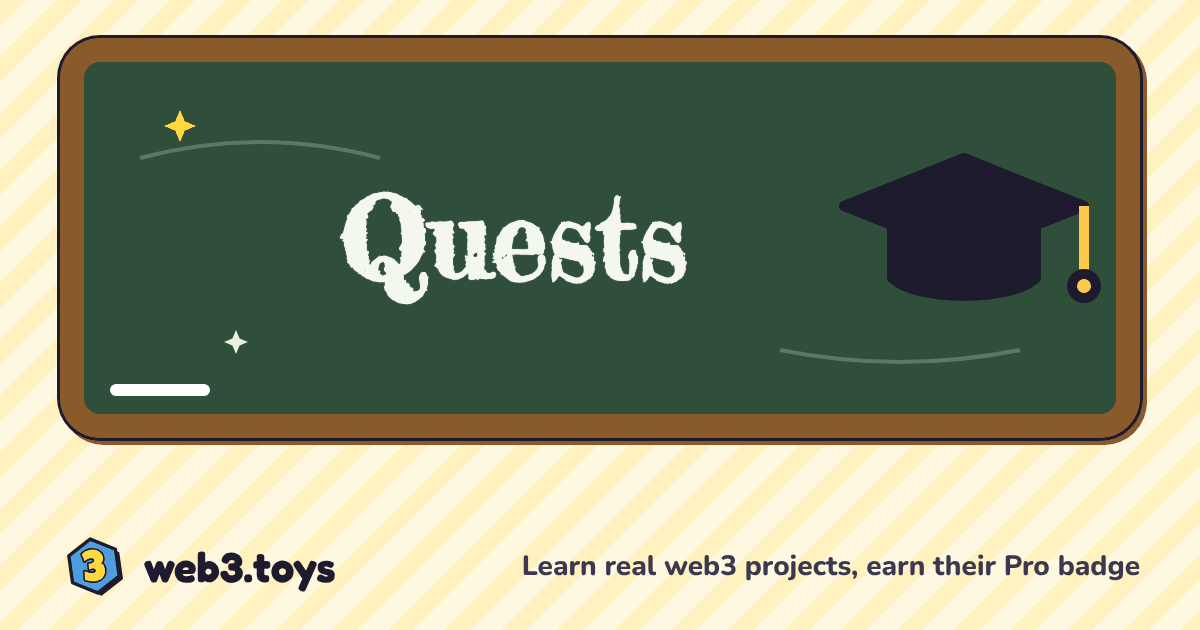
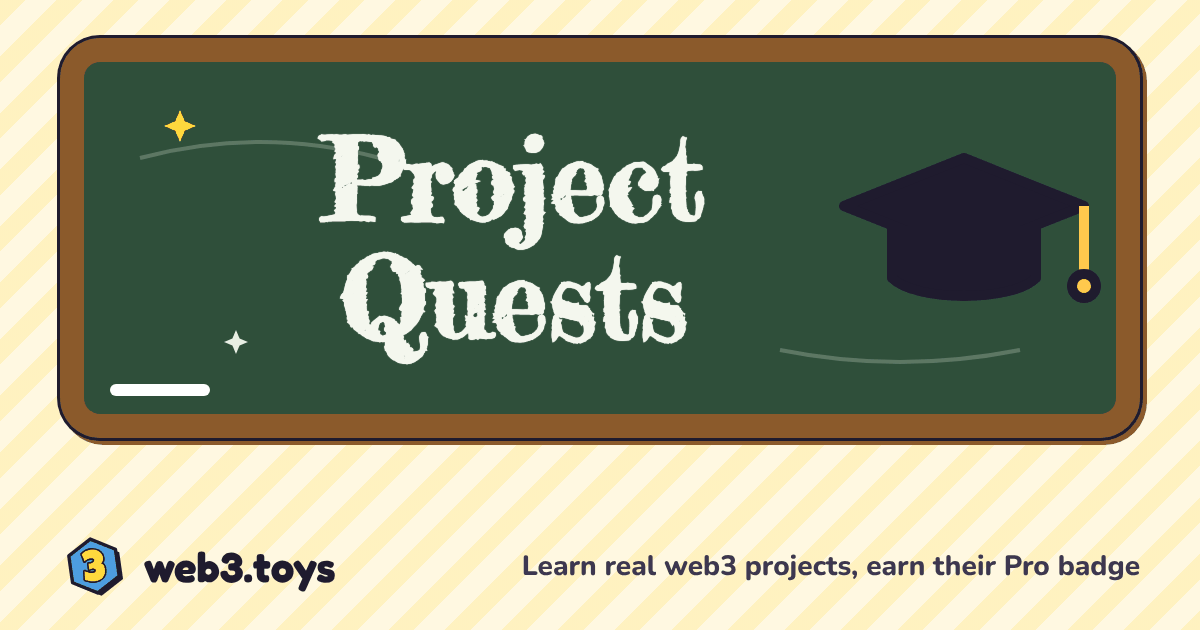
Rename Quests to Project Quests; fix a broken share description
- Menu, footer, page titles, the Project Quests page and its card and
  share picture, page sections, Terms, Refunds, affiliate rules and
  product lines now say Project Quests
- tools/og-covers.mjs: titles with a $ (What If You Invested $100) broke
  the og:image:alt tag; replacer functions now, the page is repaired, and
  a check catches broken meta tags

Claude-Session: https://claude.ai/code/session_015mKBEwzvH2Hsnx55ykGH7X

Changed region(s): [[0.2467, 0.2111, 0.5858, 0.573]]

diff --git a/academy/index.html b/academy/index.html
@@ -3,20 +3,20 @@
   <head>
     <meta charset="utf-8" />
     <meta name="viewport" content="width=device-width, initial-scale=1, viewport-fit=cover" />
-    <title>Quests · web3.toys</title>
+    <title>Project Quests · web3.toys</title>
     <meta name="description" content="Short sponsored courses about web3 projects. Pass the quiz to earn a Pro tag and a certificate." />
     <meta property="og:type" content="website" />
     <meta property="og:site_name" content="web3.toys" />
-    <meta property="og:title" content="Quests" />
+    <meta property="og:title" content="Project Quests" />
     <meta property="og:description" content="Short sponsored courses about web3 projects. Pass the quiz to earn a Pro tag and a certificate." />
     <meta property="og:url" content="https://web3.toys/academy/" />
     <meta name="twitter:card" content="summary_large_image" />
-    <meta name="twitter:title" content="Quests" />
+    <meta name="twitter:title" content="Project Quests" />
     <meta name="twitter:description" content="Short sponsored courses about web3 projects. Pass the quiz to earn a Pro tag and a certificate." />
     <meta property="og:image" content="https://web3.toys/images/og/academy.png" />
     <meta property="og:image:width" content="1200" />
     <meta property="og:image:height" content="630" />
-    <meta property="og:image:alt" content="Quests on web3.toys" />
+    <meta property="og:image:alt" content="Project Quests on web3.toys" />
     <meta name="twitter:image" content="https://web3.toys/images/og/academy.png" />
     <meta name="theme-color" content="#FFD93D" />
     <link rel="icon" href="../images/brand/web3toys-icon.svg" type="image/svg+xml" />

diff --git a/js/site.js b/js/site.js
@@ -13,7 +13,7 @@
   var MENU = [
     { label: 'Toys', href: '' },
     { label: 'Tools', href: 'builder/' },
-    { label: 'Quests', href: 'academy/' },
+    { label: 'Project Quests', href: 'academy/' },
   ];
   var CALL = { label: 'Book a Call', href: 'book-a-call/' };
   // For Projects (switched on by business.live in config.js, planned for
@@ -166,7 +166,7 @@
   // then the links in labelled columns, then the small print the page
   // already has (Educational only, by BuildWithAki).
   var FOOTER_COLS = [
-    { title: 'Play and learn', links: [['Toys', ''], ['Tools', 'builder/'], ['Quests', 'academy/'], ['Real Toys', 'real-toys/'], ['Books', 'books/'], ['Leaderboard', 'leaderboard/']] },
+    { title: 'Play and learn', links: [['Toys', ''], ['Tools', 'builder/'], ['Project Quests', 'academy/'], ['Real Toys', 'real-toys/'], ['Books', 'books/'], ['Leaderboard', 'leaderboard/']] },
     { title: 'You', links: [['My Progress', 'progress/'], ['Check a certificate', 'verify/'], ['Become a tester', 'testers/', 'biz'], ['Claim My Page', 'my-page/', 'biz']] },
     { title: 'For projects', links: [['Launch Your Own Toy', 'launch-your-toy/', 'biz'], ['Test Your Product', 'test-your-product/', 'biz'], ['Advertise', 'advertise/', 'biz'], ['List your Quest', 'academy/list-your-project/'], ['Pages directory', 'pages/', 'biz'], ['Work with us', 'work-with-us/', 'nobiz'], ['Book a Call', 'book-a-call/']] },
     { title: 'About', links: [['About Aki', 'about/'], ['Contact', 'contact/'], ['Privacy', 'privacy/'], ['Terms', 'terms/'], ['Refunds', 'refunds/']] },

diff --git a/js/page-view.js b/js/page-view.js
@@ -100,7 +100,7 @@
       (!p.claimed ? '<section class="card card--yellow stack stack--tight pg-claim"><b>' + esc(P.copy.notClaimedLine) + '</b><p class="small-print">' + esc(fill(P.copy.claimHow)) + '</p>' +
         '<button type="button" class="btn btn--ink" data-claim>' + esc(P.copy.claim) + '</button><p class="small-print" data-claim-msg aria-live="polite"></p></section>' : '') +
       ((p.featured_toys || []).length ? '<section class="stack stack--tight"><h2 class="section-title">' + (p.type === 'project' ? 'Our toys' : 'Toys I recommend') + '</h2><ul class="pg-toys">' + toyCards(p.featured_toys) + '</ul></section>' : '') +
-      ((p.featured_courses || []).length ? '<section class="stack stack--tight"><h2 class="section-title">Quests</h2><ul class="pg-toys">' + courseCards(p.featured_courses) + '</ul></section>' : '') +
+      ((p.featured_courses || []).length ? '<section class="stack stack--tight"><h2 class="section-title">Project Quests</h2><ul class="pg-toys">' + courseCards(p.featured_courses) + '</ul></section>' : '') +
       '<div data-more></div>' +
       '<p class="small-print pg-foot">Pages are made by their owners' + (!p.claimed ? ' (this one by web3.toys, from public information)' : '') + '. web3.toys does not endorse any token. Not financial advice. ' +
       '<button type="button" class="text-button" data-report>' + esc(P.copy.report) + '</button></p>';

diff --git a/js/academy-course.js b/js/academy-course.js
@@ -25,7 +25,7 @@
     course = c;
     if (!Academy.visible(c)) return ended('This course has ended.');
     me = Academy.entry(store, id);
-    document.title = c.name + ' course · Quests · web3.toys';
+    document.title = c.name + ' course · Project Quests · web3.toys';
     var root = document.documentElement;
     root.style.setProperty('--p', c.colors.primary);
     root.style.setProperty('--a', c.colors.accent);
@@ -37,7 +37,7 @@
 
   function ended(text) {
     app.innerHTML = '<section class="card stack stack--tight"><h1 class="title-lg">' + esc(text) + '</h1>' +
-      '<p class="text">See the courses that are running now.</p><a class="btn btn--ink btn--block" href="../">Back to Quests</a></section>';
+      '<p class="text">See the courses that are running now.</p><a class="btn btn--ink btn--block" href="../">Back to Project Quests</a></section>';
   }
 
   function save() {
@@ -359,7 +359,7 @@
       ctx.font = '700 52px ' + DISPLAY;
       // The hexagon 3 icon, then the site name.
       if (icon) ctx.drawImage(icon, 110, 94, 84, 84);
-      ctx.fillText('web3.toys · Quests', icon ? 204 : 120, 110);
+      ctx.fillText('web3.toys · Project Quests', icon ? 204 : 120, 110);
       ctx.font = '800 32px ' + BODY;
       ctx.fillText('CERTIFICATE OF COMPLETION', 120, 210);
       fit(ctx, cert.name, '700', 108, DISPLAY, 900);

diff --git a/js/academy.js b/js/academy.js
@@ -54,9 +54,9 @@
   function render() {
     var list = Academy.filterCourses(courses, chain, category);
     app.innerHTML =
-      '<section class="tool-head stack stack--tight"><h1 class="tool-title">Quests</h1>' +
+      '<section class="tool-head stack stack--tight"><h1 class="tool-title">Project Quests</h1>' +
       '<p class="text text--ink">Pick a real web3 project, learn how it works in 5 minutes, then beat the quiz to unlock its Pro badge and a certificate you can share.</p>' +
-      '<p class="tool-disclaimer">Quests are sponsored by the projects. web3.toys does not endorse any token. Not financial advice.</p></section>' +
+      '<p class="tool-disclaimer">Project Quests are sponsored by the projects. web3.toys does not endorse any token. Not financial advice.</p></section>' +
       (courses.length ? '<div class="ac-filters">' + chips('Chain', 'chain', chain) + chips('Category', 'category', category) + '</div>' : '') +
       (list.length ? '<ul class="ac-grid">' + list.map(card).join('') + '</ul>' : '<p class="card text">No quests match. Try All.</p>') +
       '<a class="card ac-list" href="list-your-project/"><span class="title-sm">Run a web3 project?</span><span class="text">Turn it into a Quest players love. See how it works →</span></a>';

diff --git a/js/page-edit.js b/js/page-edit.js
@@ -256,7 +256,7 @@
       '<fieldset><legend class="label">Toys to feature (up to ' + P.maxFeatured + ')</legend><div class="pg-picks">' + toys.map(function (t) {
         return '<label class="mk-check"><input type="checkbox" data-toy="' + esc(t.id) + '"' + (p.featured_toys.indexOf(t.id) >= 0 ? ' checked' : '') + ' /> <span>' + esc(t.title) + '</span></label>';
       }).join('') + '</div></fieldset>' +
-      (courses.length ? '<fieldset><legend class="label">Quests to feature</legend><div class="pg-picks">' + courses.map(function (c) {
+      (courses.length ? '<fieldset><legend class="label">Project Quests to feature</legend><div class="pg-picks">' + courses.map(function (c) {
         return '<label class="mk-check"><input type="checkbox" data-course="' + esc(c.id) + '"' + (p.featured_courses.indexOf(c.id) >= 0 ? ' checked' : '') + ' /> <span>' + esc(c.name) + '</span></label>';
       }).join('') + '</div></fieldset>' : '') +
       '<fieldset><legend class="label">Brand colour</legend><div class="pg-swatches">' + P.colors.map(function (c) {

diff --git a/js/profile.js b/js/profile.js
@@ -166,7 +166,7 @@
   }
 
   function ranksHtml(s) {
-    return '<h3 class="pf-h">Ranks</h3><p class="small-print">Every certificate and Pro tag (from the <a href="../academy/">Quests</a>) counts toward your rank.</p><ol class="rank-ladder">' + ranks.map(function (r, i) {
+    return '<h3 class="pf-h">Ranks</h3><p class="small-print">Every certificate and Pro tag (from the <a href="../academy/">Project Quests</a>) counts toward your rank.</p><ol class="rank-ladder">' + ranks.map(function (r, i) {
       return '<li class="' + (r === s.rank ? 'is-current' : s.n >= r.min ? 'is-done' : '') + '">' + C.rankBadge(r, i + 1) + '<span class="small-print">' + r.min + (r.min === 1 ? ' certificate' : ' certificates') + '</span></li>';
     }).join('') + '</ol>';
   }

diff --git a/invest-100/index.html b/invest-100/index.html
@@ -16,7 +16,7 @@
     <meta property="og:image" content="https://web3.toys/images/og/invest-100.png" />
     <meta property="og:image:width" content="1200" />
     <meta property="og:image:height" content="630" />
-    <meta property="og:image:alt" content="What If You Invested <meta property="og:image:alt" content="00 on web3.toys" />
+    <meta property="og:image:alt" content="What If You Invested $100 on web3.toys" />
     <meta name="twitter:image" content="https://web3.toys/images/og/invest-100.png" />
     <meta name="theme-color" content="#FFD93D" />
     <link rel="icon" href="../images/brand/web3toys-icon.svg" type="image/svg+xml" />

diff --git a/js/admin-ops.js b/js/admin-ops.js
@@ -40,7 +40,7 @@
     if (/^pro-/.test(id)) return 'Pro pages';
     var p = catalog[id];
     var t = p && p.type;
-    return { report: 'Reports', cert: 'Certificates', book: 'Books', call: 'Calls', project: 'Work with us', course: 'Quests' }[t] || (p ? p.title : id);
+    return { report: 'Reports', cert: 'Certificates', book: 'Books', call: 'Calls', project: 'Work with us', course: 'Project Quests' }[t] || (p ? p.title : id);
   }
 
   // ---------- Sample data ----------
